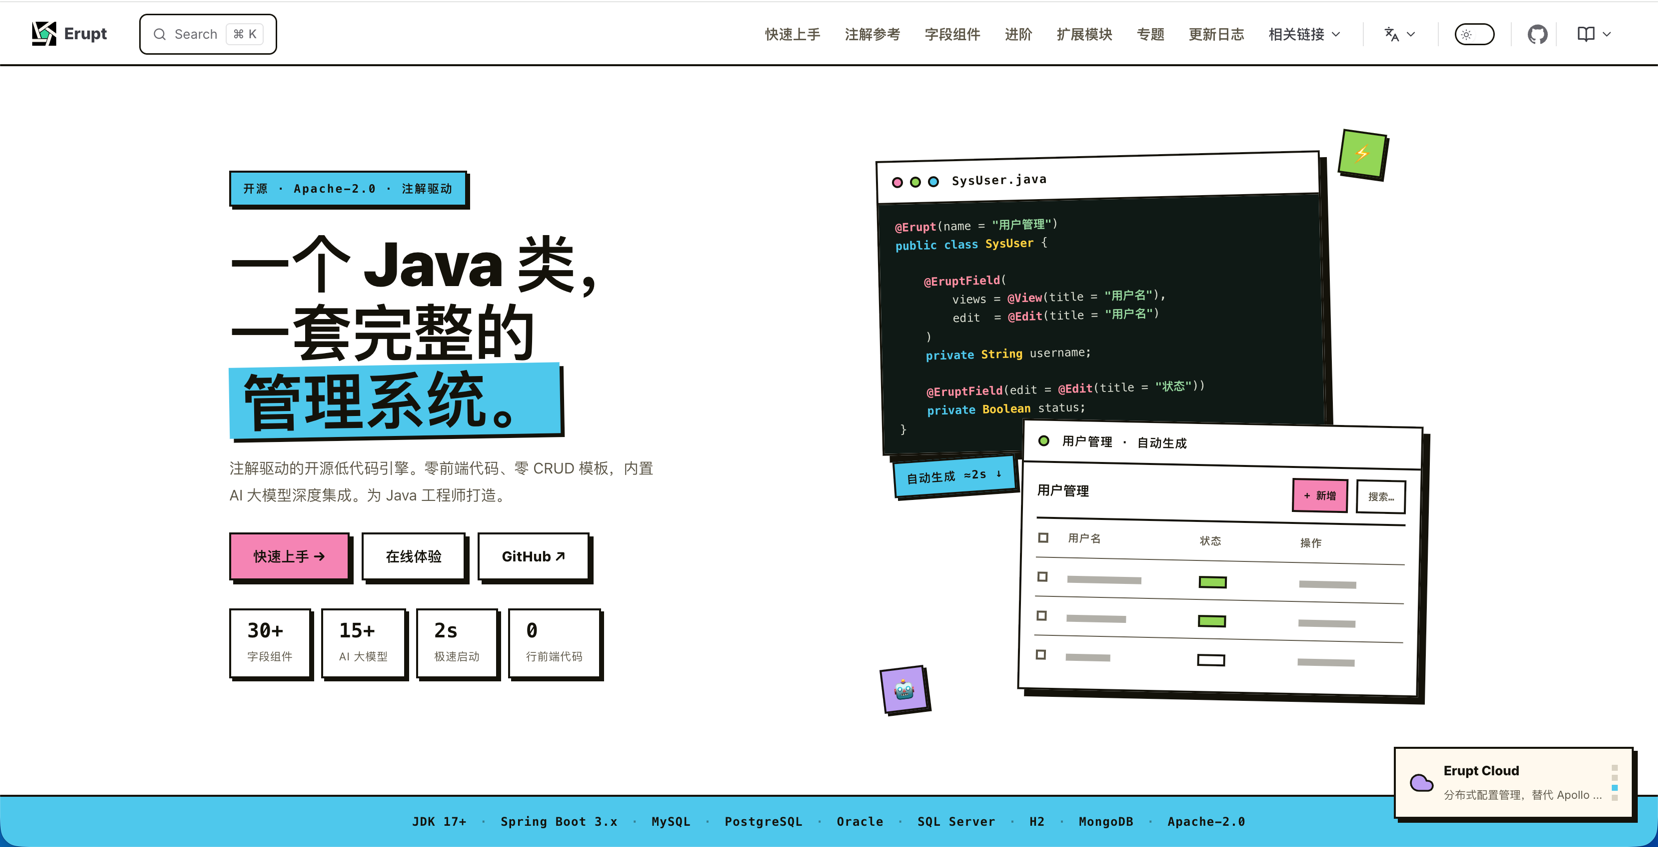
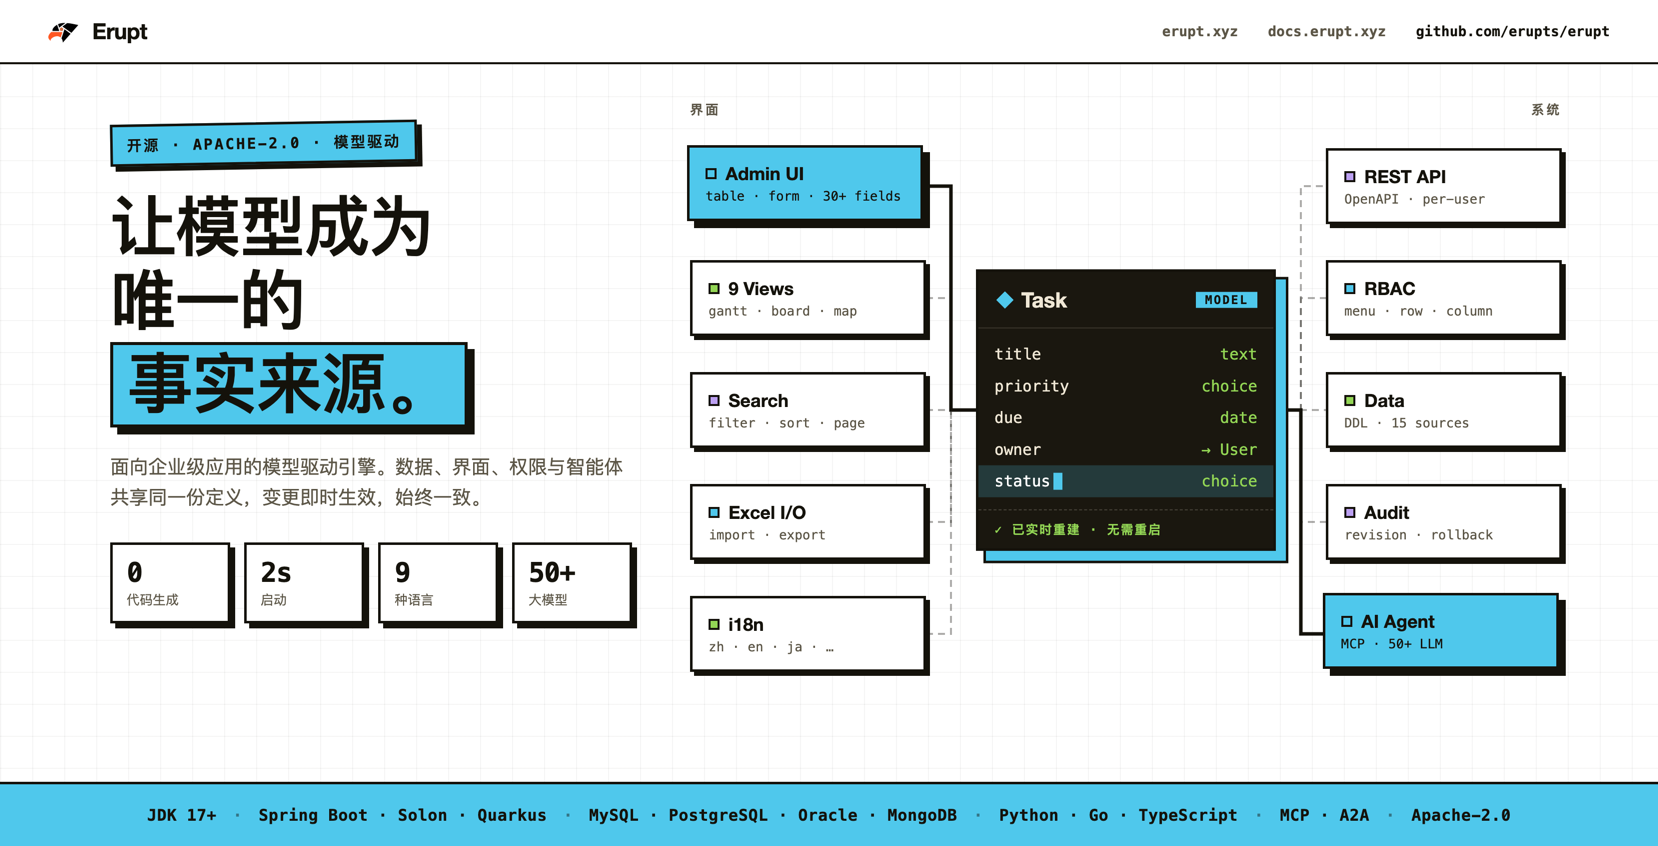
Redraw the README hero image and model diagram
Same as develop: new en / zh hero images for the model-driven positioning and
a cleaner, aligned ASCII diagram in "The idea".

diff --git a/README.md b/README.md
@@ -46,15 +46,16 @@ English &nbsp;|&nbsp; [中文](README-zh.md)
 > **Make the model your single source of truth.** Describe a business object once — its fields, types, relations and rules — and Erupt builds the rest of the system from it at runtime. Nothing is generated, so nothing drifts: change the model, and the UI, APIs, permissions and data layer change with it, instantly.
 
 ```
-                 ┌──────────────────────────┐
-  Admin UI  ◄────┤                          ├────►  REST · OpenAPI
-  9 views   ◄────┤   ◆ Task          model  ├────►  RBAC · row / column
-  Search    ◄────┤   title     text         ├────►  Data · DDL · 15 sources
-  Excel I/O ◄────┤   priority  choice       ├────►  Audit · revision
-  i18n      ◄────┤   due       date         ├────►  AI agent · MCP
-                 │   owner     → User       │
-                 └──────────────────────────┘
-           one model  →  the whole system, rebuilt live on every change
+              ┌──────────────────────────────────────────┐
+              │ Task                              model  │
+              │ title  · text      priority · choice     │
+              │ due    · date      owner    · → User     │
+              └─────────────────────┬────────────────────┘
+                                    │   read at runtime — nothing is generated
+      ┌───────────┬───────────┬─────┴─────┬───────────┬───────────┐
+      ▼           ▼           ▼           ▼           ▼           ▼
+   Admin UI    REST API      RBAC        Data       Audit      AI Agent
+   9 views     OpenAPI    row · col   15 sources   revision      MCP
 ```
 
 | WHAT THE MODEL BUILDS | WHAT YOU NO LONGER WRITE |

diff --git a/README-zh.md b/README-zh.md
@@ -46,15 +46,16 @@
 > **让模型成为唯一的事实来源。** 只需描述一次业务对象——字段、类型、关系与规则——Erupt 就在运行时据此构建出整个系统。没有生成的代码，也就不会产生偏差：改动模型，界面、接口、权限与数据层随之即时生效。
 
 ```
-                 ┌──────────────────────────┐
-  Admin UI  ◄────┤                          ├────►  REST · OpenAPI
-  9 views   ◄────┤   ◆ Task          model  ├────►  RBAC · row / column
-  Search    ◄────┤   title     text         ├────►  Data · DDL · 15 sources
-  Excel I/O ◄────┤   priority  choice       ├────►  Audit · revision
-  i18n      ◄────┤   due       date         ├────►  AI agent · MCP
-                 │   owner     → User       │
-                 └──────────────────────────┘
-           一份模型  →  整个系统，每次改动实时重建
+              ┌──────────────────────────────────────────┐
+              │ Task                              model  │
+              │ title  · text      priority · choice     │
+              │ due    · date      owner    · → User     │
+              └─────────────────────┬────────────────────┘
+                                    │   read at runtime — nothing is generated
+      ┌───────────┬───────────┬─────┴─────┬───────────┬───────────┐
+      ▼           ▼           ▼           ▼           ▼           ▼
+   Admin UI    REST API      RBAC        Data       Audit      AI Agent
+   9 views     OpenAPI    row · col   15 sources   revision      MCP
 ```
 
 | 模型构建出的能力 | 不必再写的代码 |
